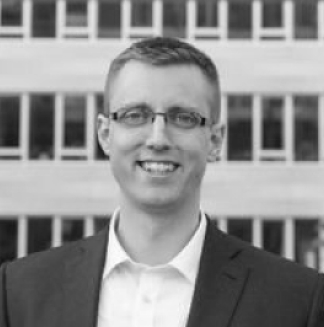
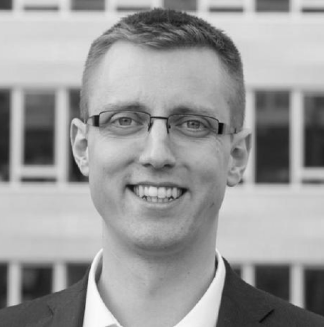
deploy: 641bfc28cc1fe3d0d56205f25e296456fe45c84c

diff --git a/team/index.html b/team/index.html
@@ -3,7 +3,7 @@
 <span class=sr-only>The team - go to homepage</span></a><div class=navbar-buttons><button type=button class="navbar-toggle btn-template-main" data-toggle=collapse data-target=#navigation>
 <span class=sr-only>Toggle Navigation</span>
 <i class="fa fa-align-justify"></i></button></div></div><div class="navbar-collapse collapse" id=navigation><ul class="nav navbar-nav navbar-right"><li class=dropdown><a href=/about/>About SAMM</a></li><li class=dropdown><a href=/model/>The model</a></li><li class=dropdown><a href=/resources/>Resources</a></li><li class=dropdown><a href=# class=dropdown-toggle data-toggle=dropdown role=button aria-haspopup=true aria-expanded=false>Guidance <span class=caret></span></a><ul class=dropdown-menu><li><a href=/guidance/quick-start-guide/>Getting started</a></li><li><a href=/assessment/>Assessment</a></li><li><a href=/guidance/agile/>Agile</a></li><li><a href=/benchmarking/>Benchmarking</a></li><li><a href=/stream-guidance/>Stream guidance</a></li></ul></li><li class=dropdown><a href=# class=dropdown-toggle data-toggle=dropdown role=button aria-haspopup=true aria-expanded=false>Community <span class=caret></span></a><ul class=dropdown-menu><li><a href=/blog/>Blog</a></li><li><a href=/user-day/>User Day</a></li><li><a href=/events/>Events</a></li><li><a href=/sponsors/>Sponsors</a></li><li><a href=/references/>References</a></li><li><a href=/practitioners/>Practitioners</a></li><li><a href=/faq/>FAQ</a></li><li><a href=/contributing/>Contributing</a></li><li><a href=/contact/>Contact</a></li></ul></li></ul></div><div class="collapse clearfix" id=search><form class=navbar-form role=search><div class=input-group><input type=text class=form-control placeholder=Search>
-<span class=input-group-btn><button type=submit class="btn btn-template-main"><i class="fa fa-search"></i></button></span></div></form></div></div></div></div></header><div id=heading-breadcrumbs><div class=container><div class=row><div class=col-md-12><h1>The team</h1></div></div></div></div><div id=content><div class=container><div class=row><div class="col-md-12 samm-page-content"><div><h2 id=who-is-behind-samm>Who is behind SAMM?</h2><div class=responsive-image><img class=img-responsive src=https://owaspsamm.org//img/team/coreteam.jpg alt="SAMM Core Team"></div><p>SAMM is a community-based project and there have been many contributors throughout its history.</p><p>The OWASP SAMM community is powered by security knowledgeable volunteers from businesses and educational organizations. This global collective collaborates to create freely-available articles, methodologies, documentation, tools, and technologies.</p><h2 id=the-owasp-samm-core-team>The OWASP SAMM Core Team</h2><p>These are the people who are currently part of the Core Team, participating actively in regular meetings and summits, and contributing to the project with their work.<br><br></p><div class=team-members-container><div class=row><div class=col-md-12><div class="col-lg-3 col-md-6 col-12 wow fadeInDown" data-wow-duration=500ms><div class=team-member><div class=member-photo><img class="img-fluid lozad" src=https://owaspsamm.org/img/team/seba.jpg alt="Seba Deleersnyder"><div class=mask><ul class=list-inline><li class=list-inline-item><a href=https://www.linkedin.com/in/sebadele/><i class="fab fa-linkedin-in"></i></a></li><li class=list-inline-item><a href=https://twitter.com/sebadele><i class="fab fa-twitter"></i></a></li><li class=list-inline-item><a href=https://github.com/SebaDele><i class="fab fa-github"></i></a></li></ul></div></div><div class=member-meta><h4>Seba Deleersnyder</h4><span>Project leader</span><p>Lorem ipsum dolor sit amet consectetur adipisicing elit. Aspernatur necessitatibus ullam, culpa odio.</p></div></div></div><div class="col-lg-3 col-md-6 col-12 wow fadeInDown" data-wow-duration=500ms><div class=team-member><div class=member-photo><img class="img-fluid lozad" src=https://owaspsamm.org/img/team/bart.jpg alt="Bart De Win"><div class=mask><ul class=list-inline><li class=list-inline-item><a href=#><i class="fab fa-linkedin-in"></i></a></li><li class=list-inline-item><a href=#><i class="fab fa-twitter"></i></a></li><li class=list-inline-item><a href=#><i class="fab fa-github"></i></a></li></ul></div></div><div class=member-meta><h4>Bart De Win</h4><span>Project leader</span><p>Director Cyber&Privacy unit PwC Belgium. AppSec enthusiast.</p></div></div></div><div class="col-lg-3 col-md-6 col-12 wow fadeInDown" data-wow-duration=500ms><div class=team-member><div class=member-photo><img class="img-fluid lozad" src=https://owaspsamm.org/img/team/maxim.jpg alt="Maxim Baele"><div class=mask><ul class=list-inline><li class=list-inline-item><a href=https://www.linkedin.com/in/maximbaele/><i class="fab fa-linkedin-in"></i></a></li><li class=list-inline-item><a href=https://github.com/maximbaele><i class="fab fa-github"></i></a></li></ul></div></div><div class=member-meta><h4>Maxim Baele</h4><span>Core Team member</span><p>Product security consultant with a background in linux system engineering, architecture, and automation</p></div></div></div><div class="col-lg-3 col-md-6 col-12 wow fadeInDown" data-wow-duration=500ms><div class=team-member><div class=member-photo><img class="img-fluid lozad" src=https://owaspsamm.org/img/team/johndi.jpg alt="John DiLeo"><div class=mask><ul class=list-inline><li class=list-inline-item><a href=https://www.linkedin.com/in/john-dileo/><i class="fab fa-linkedin-in"></i></a></li><li class=list-inline-item><a href=https://twitter.com/gr4ybeard><i class="fab fa-twitter"></i></a></li><li class=list-inline-item><a href=https://github.com/johndileo/><i class="fab fa-github"></i></a></li></ul></div></div><div class=member-meta><h4>John DiLeo</h4><span>Core Team member</span><p>Lorem ipsum dolor sit amet consectetur adipisicing elit. Aspernatur necessitatibus ullam, culpa odio.</p></div></div></div><div class="col-lg-3 col-md-6 col-12 wow fadeInDown" data-wow-duration=500ms><div class=team-member><div class=member-photo><img class="img-fluid lozad" src=https://owaspsamm.org/img/team/pat.jpg alt="Patricia Duarte"><div class=mask><ul class=list-inline><li class=list-inline-item><a href=https://www.linkedin.com/in/mpatriciaduarte/><i class="fab fa-linkedin-in"></i></a></li><li class=list-inline-item><a href=https://pat-duarte.github.io/><i class="fa fa-globe"></i></a></li><li class=list-inline-item><a href=https://github.com/Pat-Duarte><i class="fab fa-github"></i></a></li></ul></div></div><div class=member-meta><h4>Patricia Duarte</h4><span>Core Team member</span><p>Technical writer, UX person, developer.</p></div></div></div><div class="col-lg-3 col-md-6 col-12 wow fadeInDown" data-wow-duration=500ms><div class=team-member><div class=member-photo><img class="img-fluid lozad" src=https://owaspsamm.org/img/team/johnE.jpg alt="John Ellingsworth"><div class=mask><ul class=list-inline><li class=list-inline-item><a href=#><i class="fab fa-linkedin-in"></i></a></li><li class=list-inline-item><a href=#><i class="fab fa-twitter"></i></a></li><li class=list-inline-item><a href=#><i class="fab fa-github"></i></a></li></ul></div></div><div class=member-meta><h4>John Ellingsworth</h4><span>Core Team member</span><p>Lorem ipsum dolor sit amet consectetur adipisicing elit. Aspernatur necessitatibus ullam, culpa odio.</p></div></div></div><div class="col-lg-3 col-md-6 col-12 wow fadeInDown" data-wow-duration=500ms><div class=team-member><div class=member-photo><img class="img-fluid lozad" src=https://owaspsamm.org/img/team/brian.jpg alt="Brian Glas"><div class=mask><ul class=list-inline><li class=list-inline-item><a href=https://www.linkedin.com/in/brianglas/><i class="fab fa-linkedin-in"></i></a></li><li class=list-inline-item><a href=https://twitter.com/infosecdad><i class="fab fa-twitter"></i></a></li><li class=list-inline-item><a href=https://github.com/infosecdad><i class="fab fa-github"></i></a></li></ul></div></div><div class=member-meta><h4>Brian Glas</h4><span>Core Team member</span><p>Professor and security consultant.</p></div></div></div><div class="col-lg-3 col-md-6 col-12 wow fadeInDown" data-wow-duration=500ms><div class=team-member><div class=member-photo><img class="img-fluid lozad" src=https://owaspsamm.org/img/team/aram.jpg alt="Aram Hovsepyan"><div class=mask><ul class=list-inline><li class=list-inline-item><a href=https://www.linkedin.com/in/aramhovsep/><i class="fab fa-linkedin-in"></i></a></li><li class=list-inline-item><a href=https://github.com/aramhovsepyan><i class="fab fa-github"></i></a></li></ul></div></div><div class=member-meta><h4>Aram Hovsepyan</h4><span>Core Team member</span><p>Lorem ipsum dolor sit amet consectetur adipisicing elit. Aspernatur necessitatibus ullam, culpa odio.</p></div></div></div><div class="col-lg-3 col-md-6 col-12 wow fadeInDown" data-wow-duration=500ms><div class=team-member><div class=member-photo><img class="img-fluid lozad" src=https://owaspsamm.org/img/team/daniel.jpg alt="Daniel Kefer"><div class=mask><ul class=list-inline><li class=list-inline-item><a href=#><i class="fab fa-linkedin-in"></i></a></li><li class=list-inline-item><a href=#><i class="fab fa-twitter"></i></a></li><li class=list-inline-item><a href=#><i class="fab fa-github"></i></a></li></ul></div></div><div class=member-meta><h4>Daniel Kefer</h4><span>Core Team member</span><p>Lorem ipsum dolor sit amet consectetur adipisicing elit. Aspernatur necessitatibus ullam, culpa odio.</p></div></div></div><div class="col-lg-3 col-md-6 col-12 wow fadeInDown" data-wow-duration=500ms><div class=team-member><div class=member-photo><img class="img-fluid lozad" src=https://owaspsamm.org/img/team/johnK.jpg alt="John Kennedy"><div class=mask><ul class=list-inline><li class=list-inline-item><a href=https://www.linkedin.com/in/kennedygroupab/><i class="fab fa-linkedin-in"></i></a></li><li class=list-inline-item><a href=https://twitter.com/KA_Growth><i class="fab fa-twitter"></i></a></li><li class=list-inline-item><a href=https://github.com/KGABSWEDEN><i class="fab fa-github"></i></a></li></ul></div></div><div class=member-meta><h4>John Kennedy</h4><span>Core Team member</span><p>B2B Content, conversion & marketing strategy specialist.</p></div></div></div><div class="col-lg-3 col-md-6 col-12 wow fadeInDown" data-wow-duration=500ms><div class=team-member><div class=member-photo><img class="img-fluid lozad" src=https://owaspsamm.org/img/team/romuald.jpg alt="Romuald Szkudlarek"><div class=mask><ul class=list-inline><li class=list-inline-item><a href=https://www.linkedin.com/in/romuald-szkudlarek-4463671/><i class="fab fa-linkedin-in"></i></a></li></ul></div></div><div class=member-meta><h4>Romuald Szkudlarek</h4><span>Core Team member</span><p>Cyber security and data protection specialist building & managing trust in digital systems.</p></div></div></div></div></div></div><h2 id=contributors>Contributors</h2><p>SAMM has also been enriched by a diverse group of contributors who have poured their expertise and passion into shaping the project. To all our contributors, we extend our heartfelt thanks for your dedication and invaluable contributions. Your tireless efforts are truly appreciated and, together, we are making the digital world a safer place.</p><ul><li>Sebastian Arriada</li><li>Brett Crawley</li><li>Bruce Jenkins</li><li>Yan Kravchenko</li><li>Timo Pagel</li><li>Hardik Parekh</li><li>Felipe Zipitria</li></ul><p>If you think someone is missing, do let us know!</p><hr><p>Willing to contribute? If you want to learn more, check out our <strong><a href=%22/contributing%22>contributing</a></strong> page.</p></div></div></div></div></div><footer id=footer><div class=container><div class="col-md-8 col-sm-6"><h4>About us</h4><p>This is an OWASP Project.</br>OWASP is an open community dedicated to enabling organizations to conceive, develop, acquire, operate, and maintain applications that can be trusted. All of the OWASP tools, documents, forums, and chapters are free and open to anyone interested in improving application security.</p><div class=social><a href=https://github.com/owaspsamm target=_blank style=opacity:1><i class="fab fa-2x fa-github"></i></a><a href=https://owasp.slack.com/messages/C0VF1EJGH target=_blank style=opacity:1><i class="fab fa-2x fa-slack"></i></a><a href=https://www.linkedin.com/company/owasp-samm/ target=_blank style=opacity:1><i class="fab fa-2x fa-linkedin-in"></i></a><a href=https://twitter.com/OwaspSAMM target=_blank style=opacity:1><i class="fab fa-2x fa-twitter"></i></a><a href=https://www.meetup.com/owasp-samm/ target=_blank style=opacity:1><i class="fab fa-2x fa-meetup"></i></a><a href=https://www.youtube.com/channel/UCEZDbvQrj5APg5cEET49A_g target=_blank style=opacity:1><i class="fa fa-2x fa-youtube"></i></a><a href=mailto:info@owaspsamm.org target=_blank style=opacity:1><i class="fa fa-2x fa-envelope"></i></a></div><hr class="hidden-md hidden-lg hidden-sm"></div><div class="col-md-4 col-sm-6"><a href=https://owasp.org target=_blank><img src=https://owaspsamm.org//img/owasp_logo_1c_w_notext.png alt="The team"></a></div></div></footer><div id=copyright><div class=container><div class=col-md-12><p class=pull-left>OWASP SAMM is published under the
+<span class=input-group-btn><button type=submit class="btn btn-template-main"><i class="fa fa-search"></i></button></span></div></form></div></div></div></div></header><div id=heading-breadcrumbs><div class=container><div class=row><div class=col-md-12><h1>The team</h1></div></div></div></div><div id=content><div class=container><div class=row><div class="col-md-12 samm-page-content"><div><h2 id=who-is-behind-samm>Who is behind SAMM?</h2><div class=responsive-image><img class=img-responsive src=https://owaspsamm.org//img/team/coreteam.jpg alt="SAMM Core Team"></div><p>SAMM is a community-based project and there have been many contributors throughout its history.</p><p>The OWASP SAMM community is powered by security knowledgeable volunteers from businesses and educational organizations. This global collective collaborates to create freely-available articles, methodologies, documentation, tools, and technologies.</p><h2 id=the-owasp-samm-core-team>The OWASP SAMM Core Team</h2><p>These are the people who are currently part of the Core Team, participating actively in regular meetings and summits, and contributing to the project with their work.<br><br></p><div class=team-members-container><div class=row><div class=col-md-12><div class="col-lg-3 col-md-6 col-12 wow fadeInDown" data-wow-duration=500ms><div class=team-member><div class=member-photo><img class="img-fluid lozad" src=https://owaspsamm.org/img/team/seba.jpg alt="Seba Deleersnyder"><div class=mask><ul class=list-inline><li class=list-inline-item><a href=https://www.linkedin.com/in/sebadele/><i class="fab fa-linkedin-in"></i></a></li><li class=list-inline-item><a href=https://twitter.com/sebadele><i class="fab fa-twitter"></i></a></li><li class=list-inline-item><a href=https://github.com/SebaDele><i class="fab fa-github"></i></a></li></ul></div></div><div class=member-meta><h4>Seba Deleersnyder</h4><span>Project leader</span><p>Co-founder & CTO at Toreon, COO & trainer at DPI, Cybersecurity Personality of the Year 2022 in Belgium</p></div></div></div><div class="col-lg-3 col-md-6 col-12 wow fadeInDown" data-wow-duration=500ms><div class=team-member><div class=member-photo><img class="img-fluid lozad" src=https://owaspsamm.org/img/team/bart.jpg alt="Bart De Win"><div class=mask><ul class=list-inline><li class=list-inline-item><a href=#><i class="fab fa-linkedin-in"></i></a></li><li class=list-inline-item><a href=#><i class="fab fa-twitter"></i></a></li><li class=list-inline-item><a href=#><i class="fab fa-github"></i></a></li></ul></div></div><div class=member-meta><h4>Bart De Win</h4><span>Project leader</span><p>Director Cyber&Privacy unit PwC Belgium, AppSec enthusiast</p></div></div></div><div class="col-lg-3 col-md-6 col-12 wow fadeInDown" data-wow-duration=500ms><div class=team-member><div class=member-photo><img class="img-fluid lozad" src=https://owaspsamm.org/img/team/maxim.jpg alt="Maxim Baele"><div class=mask><ul class=list-inline><li class=list-inline-item><a href=https://www.linkedin.com/in/maximbaele/><i class="fab fa-linkedin-in"></i></a></li><li class=list-inline-item><a href=https://github.com/maximbaele><i class="fab fa-github"></i></a></li></ul></div></div><div class=member-meta><h4>Maxim Baele</h4><span>Core Team member</span><p>Product security consultant with a background in linux system engineering, architecture, and automation</p></div></div></div><div class="col-lg-3 col-md-6 col-12 wow fadeInDown" data-wow-duration=500ms><div class=team-member><div class=member-photo><img class="img-fluid lozad" src=https://owaspsamm.org/img/team/johndi.jpg alt="John DiLeo"><div class=mask><ul class=list-inline><li class=list-inline-item><a href=https://www.linkedin.com/in/john-dileo/><i class="fab fa-linkedin-in"></i></a></li><li class=list-inline-item><a href=https://twitter.com/gr4ybeard><i class="fab fa-twitter"></i></a></li><li class=list-inline-item><a href=https://github.com/johndileo/><i class="fab fa-github"></i></a></li></ul></div></div><div class=member-meta><h4>John DiLeo</h4><span>Core Team member</span><p>Application Security Consultant and Trainer, Solution Architect, Auckland-area leader of the OWASP New Zealand Chapter</p></div></div></div><div class="col-lg-3 col-md-6 col-12 wow fadeInDown" data-wow-duration=500ms><div class=team-member><div class=member-photo><img class="img-fluid lozad" src=https://owaspsamm.org/img/team/pat.jpg alt="Patricia Duarte"><div class=mask><ul class=list-inline><li class=list-inline-item><a href=https://www.linkedin.com/in/mpatriciaduarte/><i class="fab fa-linkedin-in"></i></a></li><li class=list-inline-item><a href=https://pat-duarte.github.io/><i class="fa fa-globe"></i></a></li><li class=list-inline-item><a href=https://github.com/Pat-Duarte><i class="fab fa-github"></i></a></li></ul></div></div><div class=member-meta><h4>Patricia Duarte</h4><span>Core Team member</span><p>Technical writer, UX person, developer</p></div></div></div><div class="col-lg-3 col-md-6 col-12 wow fadeInDown" data-wow-duration=500ms><div class=team-member><div class=member-photo><img class="img-fluid lozad" src=https://owaspsamm.org/img/team/johnE.jpg alt="John Ellingsworth"><div class=mask><ul class=list-inline><li class=list-inline-item><a href=https://www.linkedin.com/in/johnellingsworth/><i class="fab fa-linkedin-in"></i></a></li><li class=list-inline-item><a href=#><i class="fab fa-twitter"></i></a></li><li class=list-inline-item><a href=#><i class="fab fa-github"></i></a></li></ul></div></div><div class=member-meta><h4>John Ellingsworth</h4><span>Core Team member</span><p>Cybersecurity & web technology expert, leader of the OWASP Maine Chapter</p></div></div></div><div class="col-lg-3 col-md-6 col-12 wow fadeInDown" data-wow-duration=500ms><div class=team-member><div class=member-photo><img class="img-fluid lozad" src=https://owaspsamm.org/img/team/brian.jpg alt="Brian Glas"><div class=mask><ul class=list-inline><li class=list-inline-item><a href=https://www.linkedin.com/in/brianglas/><i class="fab fa-linkedin-in"></i></a></li><li class=list-inline-item><a href=https://twitter.com/infosecdad><i class="fab fa-twitter"></i></a></li><li class=list-inline-item><a href=https://github.com/infosecdad><i class="fab fa-github"></i></a></li></ul></div></div><div class=member-meta><h4>Brian Glas</h4><span>Core Team member</span><p>Professor and security consultant</p></div></div></div><div class="col-lg-3 col-md-6 col-12 wow fadeInDown" data-wow-duration=500ms><div class=team-member><div class=member-photo><img class="img-fluid lozad" src=https://owaspsamm.org/img/team/aram.jpg alt="Aram Hovsepyan"><div class=mask><ul class=list-inline><li class=list-inline-item><a href=https://www.linkedin.com/in/aramhovsep/><i class="fab fa-linkedin-in"></i></a></li><li class=list-inline-item><a href=https://github.com/aramhovsepyan><i class="fab fa-github"></i></a></li></ul></div></div><div class=member-meta><h4>Aram Hovsepyan</h4><span>Core Team member</span><p>CEO of Codific, security and privacy expert<br><br><br></p></div></div></div><div class="col-lg-3 col-md-6 col-12 wow fadeInDown" data-wow-duration=500ms><div class=team-member><div class=member-photo><img class="img-fluid lozad" src=https://owaspsamm.org/img/team/daniel.jpg alt="Daniel Kefer"><div class=mask><ul class=list-inline><li class=list-inline-item><a href=https://www.linkedin.com/in/kefer/><i class="fab fa-linkedin-in"></i></a></li><li class=list-inline-item><a href=https://github.com/dkefer><i class="fab fa-github"></i></a></li></ul></div></div><div class=member-meta><h4>Daniel Kefer</h4><span>Core Team member</span><p>Head of IT Security at 1&1 Mail & Media Applications SE - WEB.DE</p></div></div></div><div class="col-lg-3 col-md-6 col-12 wow fadeInDown" data-wow-duration=500ms><div class=team-member><div class=member-photo><img class="img-fluid lozad" src=https://owaspsamm.org/img/team/johnK.jpg alt="John Kennedy"><div class=mask><ul class=list-inline><li class=list-inline-item><a href=https://www.linkedin.com/in/kennedygroupab/><i class="fab fa-linkedin-in"></i></a></li><li class=list-inline-item><a href=https://twitter.com/KA_Growth><i class="fab fa-twitter"></i></a></li><li class=list-inline-item><a href=https://github.com/KGABSWEDEN><i class="fab fa-github"></i></a></li></ul></div></div><div class=member-meta><h4>John Kennedy</h4><span>Core Team member</span><p>B2B Content, conversion & marketing strategy specialist</p></div></div></div><div class="col-lg-3 col-md-6 col-12 wow fadeInDown" data-wow-duration=500ms><div class=team-member><div class=member-photo><img class="img-fluid lozad" src=https://owaspsamm.org/img/team/romuald.jpg alt="Romuald Szkudlarek"><div class=mask><ul class=list-inline><li class=list-inline-item><a href=https://www.linkedin.com/in/romuald-szkudlarek-4463671/><i class="fab fa-linkedin-in"></i></a></li></ul></div></div><div class=member-meta><h4>Romuald Szkudlarek</h4><span>Core Team member</span><p>Cyber security and data protection specialist building & managing trust in digital systems</p></div></div></div></div></div></div><h2 id=contributors>Contributors</h2><p>SAMM has also been enriched by a diverse group of contributors who have poured their expertise and passion into shaping the project. To all our contributors, we extend our heartfelt thanks for your dedication and invaluable contributions. Your tireless efforts are truly appreciated and, together, we are making the digital world a safer place.</p><ul><li>Sebastian Arriada</li><li>Brett Crawley</li><li>Bruce Jenkins</li><li>Yan Kravchenko</li><li>Timo Pagel</li><li>Hardik Parekh</li><li>Felipe Zipitria</li></ul><p>If you think someone is missing, do let us know!</p><hr><p>Willing to contribute? If you want to learn more, check out our <strong><a href=%22/contributing%22>contributing</a></strong> page.</p></div></div></div></div></div><footer id=footer><div class=container><div class="col-md-8 col-sm-6"><h4>About us</h4><p>This is an OWASP Project.</br>OWASP is an open community dedicated to enabling organizations to conceive, develop, acquire, operate, and maintain applications that can be trusted. All of the OWASP tools, documents, forums, and chapters are free and open to anyone interested in improving application security.</p><div class=social><a href=https://github.com/owaspsamm target=_blank style=opacity:1><i class="fab fa-2x fa-github"></i></a><a href=https://owasp.slack.com/messages/C0VF1EJGH target=_blank style=opacity:1><i class="fab fa-2x fa-slack"></i></a><a href=https://www.linkedin.com/company/owasp-samm/ target=_blank style=opacity:1><i class="fab fa-2x fa-linkedin-in"></i></a><a href=https://twitter.com/OwaspSAMM target=_blank style=opacity:1><i class="fab fa-2x fa-twitter"></i></a><a href=https://www.meetup.com/owasp-samm/ target=_blank style=opacity:1><i class="fab fa-2x fa-meetup"></i></a><a href=https://www.youtube.com/channel/UCEZDbvQrj5APg5cEET49A_g target=_blank style=opacity:1><i class="fa fa-2x fa-youtube"></i></a><a href=mailto:info@owaspsamm.org target=_blank style=opacity:1><i class="fa fa-2x fa-envelope"></i></a></div><hr class="hidden-md hidden-lg hidden-sm"></div><div class="col-md-4 col-sm-6"><a href=https://owasp.org target=_blank><img src=https://owaspsamm.org//img/owasp_logo_1c_w_notext.png alt="The team"></a></div></div></footer><div id=copyright><div class=container><div class=col-md-12><p class=pull-left>OWASP SAMM is published under the
 <a href=https://creativecommons.org/licenses/by-sa/4.0/>CC BY-SA 4.0 license</a>
 and we share the
 <a href=https://owasp.org/www-policy/operational/privacy>OWASP Privacy Policy</a></p><p class=pull-right>Template by <a href=http://bootstrapious.com/free-templates>Bootstrapious</a>.
